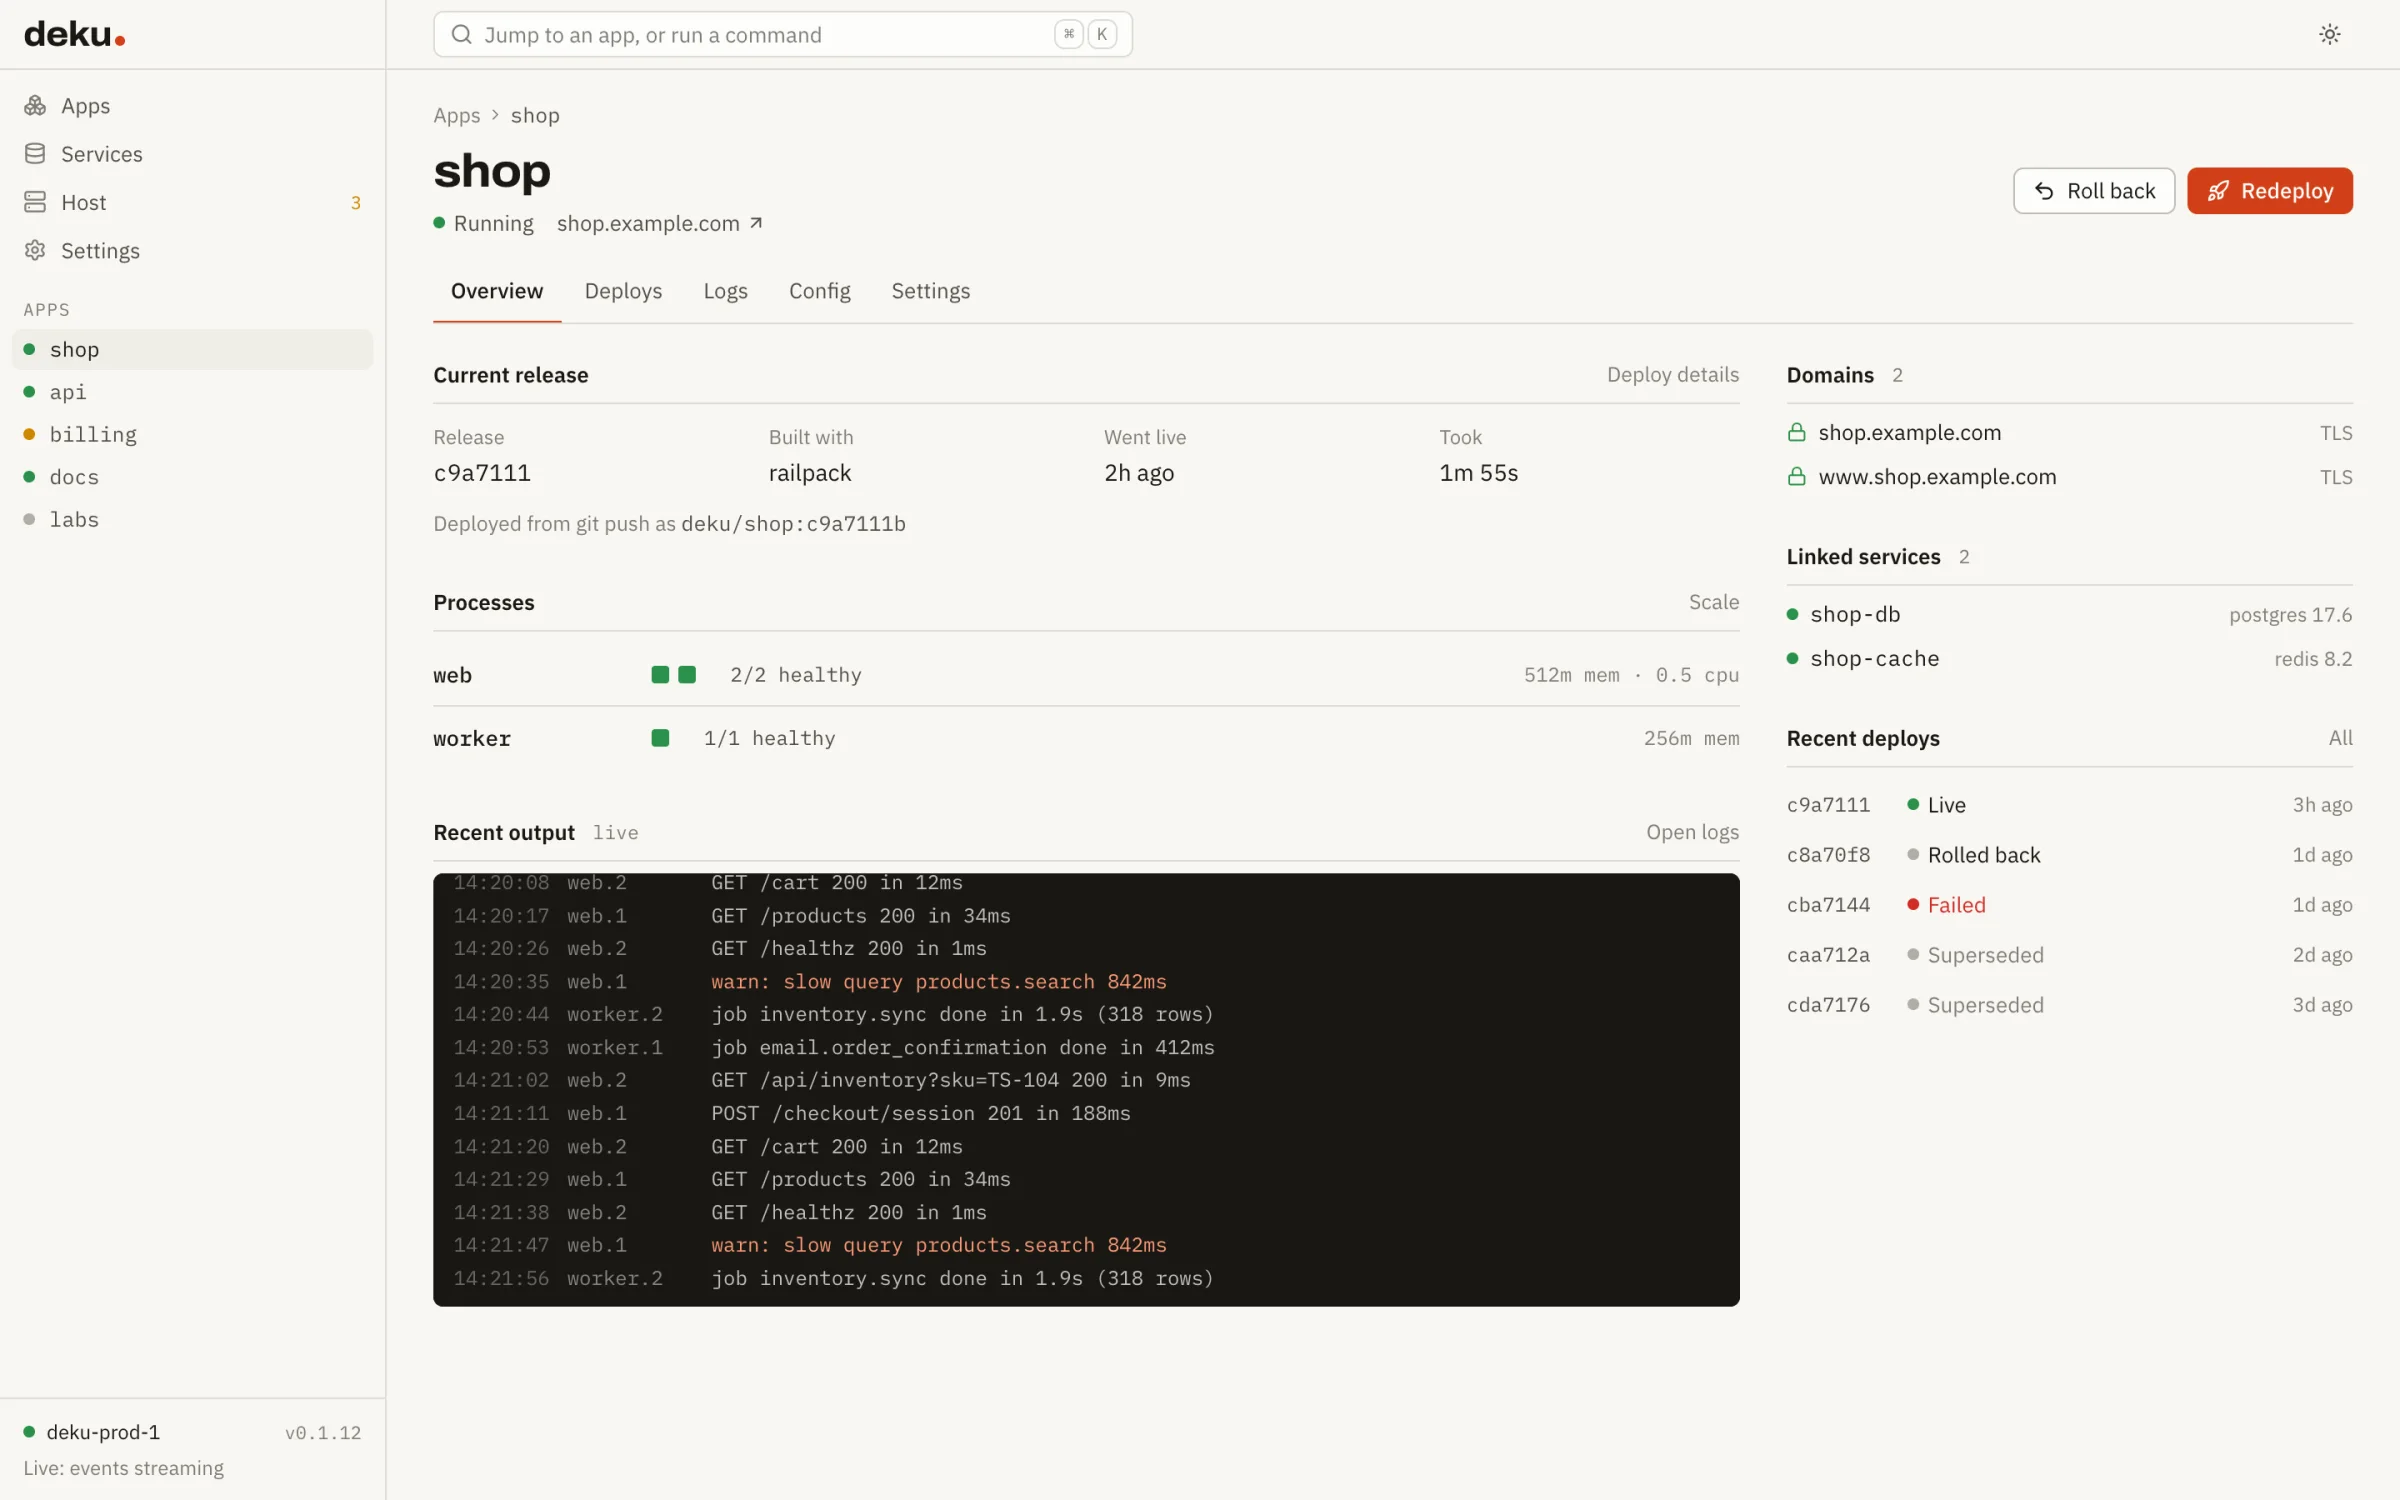
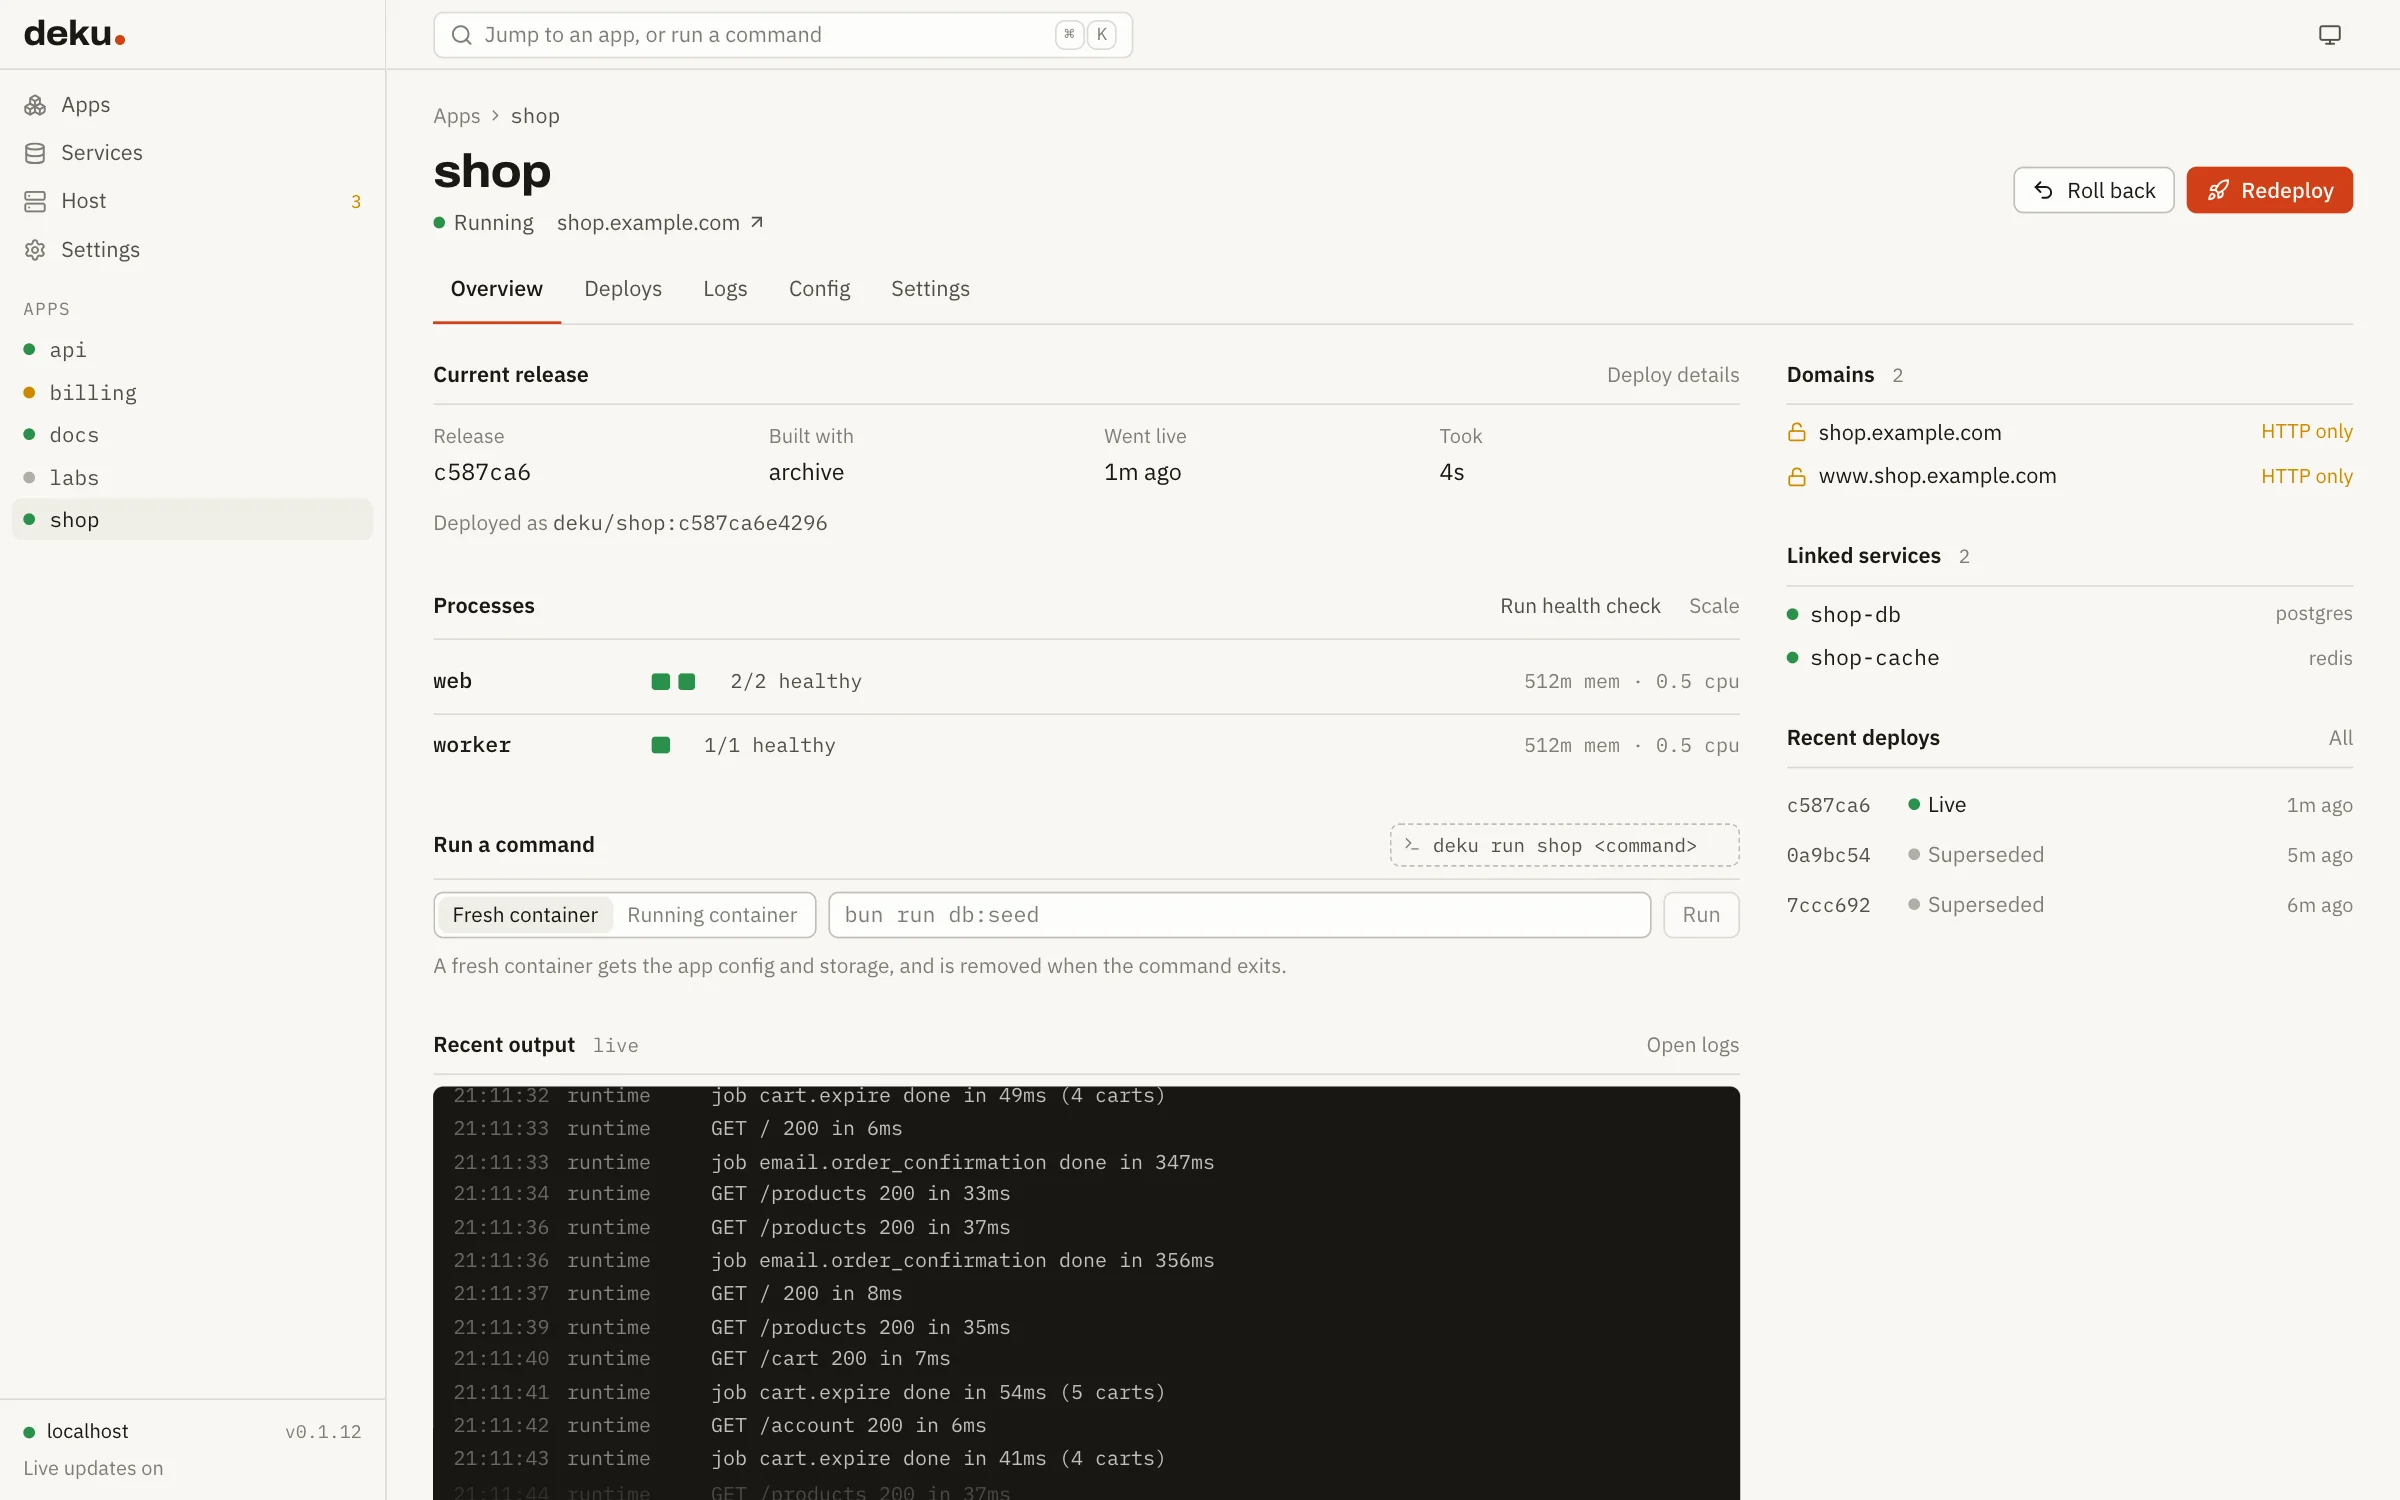
Reshoot the dashboard screenshots from a real daemon
Also correct the certificates and architecture pages, which still
described app domains without automatic certificates and the token
stored in the browser.

diff --git a/docs/src/content/docs/architecture.md b/docs/src/content/docs/architecture.md
@@ -30,8 +30,9 @@ Deku currently consists of two binaries:
 - Local `deku` CLI commands prefer the trusted Unix socket and do not depend on a plaintext token file
 - Dashboard and direct TCP API access use the same opaque dashboard token
 - The token is shown once during setup or reset, then stored only as an Argon2id hash in config
-- The dashboard stores the token in the browser after the first sign-in
-- `deku dashboard reset-token` rotates the token and invalidates previous browser sessions
+- The dashboard sends the token once at sign-in and gets an `HttpOnly` session cookie back; the
+  token itself is not kept in the browser
+- `deku dashboard reset-token` rotates the token and ends every other browser session
 - Dashboard tokens expire 30 days after they are issued; rotate with `deku dashboard reset-token`
 - The dashboard is served over plain HTTP, so new installs listen on loopback only and remote
   access goes through an SSH tunnel
@@ -44,7 +45,7 @@ Deku currently consists of two binaries:
 - Server-sent event streams for deploy and runtime event output
 - Log endpoints for apps and managed services
 
-The dashboard consumes those APIs directly over TCP bearer auth. The CLI uses the same API surface locally over the trusted Unix socket.
+The dashboard calls those APIs over TCP with its session cookie, and keeps one event stream open per tab. Scripts use the same routes with the token as a bearer header. The CLI uses the same API surface locally over the trusted Unix socket.
 
 ## Runtime Components
 

diff --git a/docs/src/content/docs/certificates.md b/docs/src/content/docs/certificates.md
@@ -174,10 +174,9 @@ Angie will re-request it and nothing is being served meanwhile.
   accepts the write, and Angie asks the certificate authority to validate immediately after. If the
   record has not reached the provider's nameservers, that attempt fails and is retried later. A first
   attempt that fails and a later one that succeeds is the expected shape of that race.
-- **The wildcard covers generated hostnames only.** An app's own domains use a certificate you
-  install at `/etc/angie/ssl/deku_<app>.crt` and `.key`; `deku letsencrypt enable <app>` turns HTTPS on
-  once both files exist. Deku does not issue or renew that certificate. See
-  [Certificate expiry](/diagnostics/#certificate-expiry) for how Deku warns before it expires.
+- **The wildcard covers generated hostnames only.** An app's own domains each get their own
+  certificate (see [App domains](#app-domains)), or serve one you install (see
+  [Installed certificates](#installed-certificates)).
 
 ## Installed certificates
 
